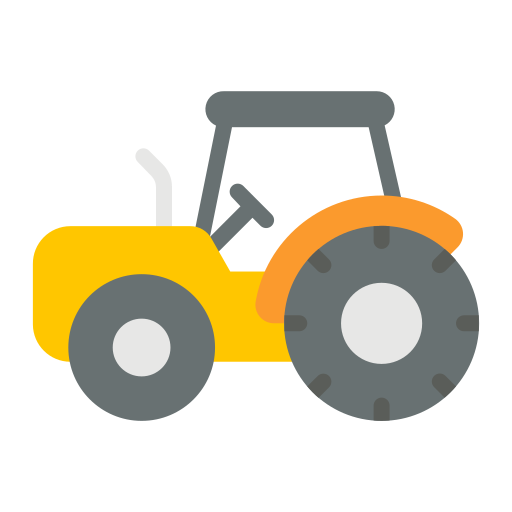
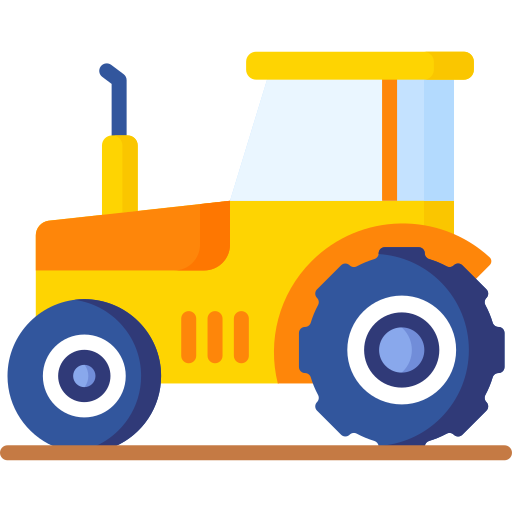
update

diff --git a/resources/js/front/profile/Front_Profile_Plans.vue b/resources/js/front/profile/Front_Profile_Plans.vue
@@ -40,7 +40,7 @@ export default {
                 <q-card-section class="bg-green-6">
                     <div class="head-title text-white">اشتراک های فعال</div>
                 </q-card-section>
-                <q-card-section>
+                <q-card-section class="mobile-plan-card-top">
                     <div class="plan-title text-indigo text-center">
                         اشتراک دریافت خدمات
                     </div>
@@ -57,18 +57,18 @@ export default {
                                         <q-icon class="card-active-icon" name="fas fa-check-circle fa-beat"/>
                                     </q-card-section>
                                 </q-card>
-                                <q-card v-else class="bg-indigo-3 shadow-8 cursor-pointer">
+                                <q-card v-else class="bg-teal-7 shadow-8 cursor-pointer">
                                     <router-link :to="{name : 'plans'}">
-                                        <q-card-section>
+                                        <q-card-section class="mobile-plan-card">
                                             <div class="row">
-                                                <div class="col-lg-3 text-center">
+                                                <div class="col-lg-3 col-md-3 col-sm-3 col-xs-3 text-center">
                                                     <q-img src="/front/images/tractor.png" class="buy-img" />
                                                 </div>
-                                                <div class="col-lg-9 q-pl-md">
-                                                    <div class="text-black buy-card-title font-iransans">
+                                                <div class="col-lg-9 col-md-3 col-sm-9 col-xs-9 q-pl-md">
+                                                    <div class="text-white buy-card-title font-iransans">
                                                         خرید اشتراک دریافت خدمات
                                                     </div>
-                                                    <div class="buy-card-subtitle text-grey-8">
+                                                    <div class="buy-card-subtitle text-grey-3 text-justify">
                                                         با خرید اشتراک دریافت خدمات کشاورز ، از امکانات کامل سیستم کشاورز برای جستجو و دریافت ادوات و خدمات کشاورزی بهرهمند شوید
                                                     </div>
                                                 </div>
@@ -112,7 +112,7 @@ export default {
     font-weight: 500;
 }
 .buy-img{
-    width: 125px;
+    width: 100px;
 }
 .card-active-icon{
     font-size: 28px;
@@ -120,6 +120,12 @@ export default {
 
 @media only screen and (max-width: 600px) {
 
+    .mobile-plan-card{
+        padding: 0 8px;
+    }
+    .mobile-plan-card-top{
+        padding: 15px 5px;
+    }
     .head-title{
         font-size: 14px;
         font-weight: 600;
@@ -130,14 +136,26 @@ export default {
         font-weight: 450;
     }
     .not-active{
-        font-size: 12px;
-        font-weight: 400;
-    }
-    .buy-btn{
         font-size: 13px;
-        font-weight: 600;
+        font-weight: 500;
     }
 
+    .buy-card-title{
+        font-size: 19px;
+        font-weight: 750;
+        margin-top: 8px;
+        margin-bottom: 8px;
+    }
+    .buy-card-subtitle{
+        font-size: 13px;
+        font-weight: 450;
+    }
+    .buy-img{
+        width: 85px;
+    }
+    .card-active-icon{
+        font-size: 19px;
+    }
 }
 
 

diff --git a/resources/js/front/plans/Front_Plans_Item.vue b/resources/js/front/plans/Front_Plans_Item.vue
@@ -6,17 +6,40 @@ export default {
 </script>
 
 <template>
-    <q-card class="bg-indigo-5 text-white">
+    <q-card class="bg-teal-9 text-white shadow-8 cursor-pointer">
         <q-card-section class="q-pa-sm">
             <div class="row">
                 <div class="col-2">
                     <q-icon name="fas fa-medal fa-3x"></q-icon>
                 </div>
                 <div class="col-10 q-pt-md">
-                    <span class="title">{{item.name}}</span>
+                    <span class="title">{{item.title}}</span>
                     <div class="">
                         <strong class="access">{{item.access}}</strong>
                         <span class="access-text">ماه دسترسی نامحدود</span>
+                    </div>
+                    <div class="q-mt-sm">
+                        <span class="price-title">قیمت : </span>
+                        <template v-if="item.is_free">
+                            <span class="float-right price text-yellow-7 fa-beat">رایگان</span>
+
+                        </template>
+                        <template v-else>
+                            <template v-if="item.sale">
+                                <span class="price-unit float-right">تومان</span>
+                                <span class="float-right price text-yellow-7">{{this.$filters.numbers(item.sale)}}</span>
+                                <span class="float-right price-sale">{{this.$filters.numbers(item.price)}}</span>
+
+
+                            </template>
+                            <template v-else>
+                                <span class="price-unit float-right">تومان</span>
+                                <span class="float-right price text-yellow-7">{{this.$filters.numbers(item.price)}}</span>
+
+                            </template>
+                        </template>
+
+
                     </div>
 
                 </div>
@@ -31,11 +54,31 @@ export default {
     font-weight: 450;
 }
 .access{
-    font-size: 25px;
+    font-size: 20px;
     font-weight: 700;
 }
 .access-text{
     padding-left: 4px;
     font-weight: 500;
+}
+.price-title{
+    font-size: 14px;
+    color: rgba(243, 239, 239, 0.99);
+}
+.price{
+    font-size: 18px;
+    font-weight: 700;
+}
+.price-unit {
+    margin-left: 5px;
+    font-size: 13px;
+}
+.price-sale{
+    margin-right: 5px;
+    font-size: 17px;
+    padding-top: 1px;
+    font-weight: 700;
+    text-decoration: line-through;
+    text-decoration-color: black;
 }
 </style>

diff --git a/resources/js/front/plans/Front_Plans_Customers.vue b/resources/js/front/plans/Front_Plans_Customers.vue
@@ -1,9 +1,35 @@
 <script>
+import {mapActions} from "vuex";
 import Front_Skeleton_Plans from "../skeleton/Front_Skeleton_Plans.vue";
 import Front_Plans_Item from "./Front_Plans_Item.vue";
 
 export default {
     name: "Front_Plans_Customers",
+    mounted() {
+        this.GetPlans();
+    },
+    data(){
+      return{
+          plans:[],
+          loading:false,
+      }
+    },
+    methods:{
+        ...mapActions([
+           "PlansStoreIndexCustomer",
+        ]),
+        GetPlans(){
+            this.loading=true;
+            this.PlansStoreIndexCustomer().then(res => {
+                this.loading=false;
+                this.plans = res.data.result;
+            }).catch(error => {
+                this.loading=false;
+                return this.NotifyServerError();
+
+            })
+        }
+    },
     components:{
         'skeleton' : Front_Skeleton_Plans,
         'plan_item' : Front_Plans_Item,
@@ -13,9 +39,15 @@ export default {
 
 <template>
     <div class="row">
-        <div v-for="i in 6" class="box-padding col-xl-3 col-lg-4 col-md-6 col-sm-12 col-xs-12">
-            <plan_item :item="{name:'اشتراک طلایی 6 ماهه',access:6}"/>
+
+        <div v-if="loading" v-for="i in 4" class="box-padding col-xl-3 col-lg-4 col-md-6 col-sm-12 col-xs-12">
+            <skeleton/>
         </div>
+
+        <div v-else v-for="plan in plans" class="box-padding col-xl-3 col-lg-4 col-md-6 col-sm-12 col-xs-12">
+            <plan_item :item="plan"/>
+        </div>
+
     </div>
 </template>
 

diff --git a/resources/js/front/plans/Front_Plans_Providers.vue b/resources/js/front/plans/Front_Plans_Providers.vue
@@ -1,19 +1,53 @@
 <script>
 import Front_Skeleton_Plans from "../skeleton/Front_Skeleton_Plans.vue";
+import {mapActions} from "vuex";
+import Front_Plans_Item from "./Front_Plans_Item.vue";
 
 export default {
     name: "Front_Plans_Providers",
+    mounted() {
+        this.GetPlans();
+    },
+    data(){
+        return{
+            plans:[],
+            loading:false,
+        }
+    },
+    methods:{
+        ...mapActions([
+            "PlansStoreIndexProvider",
+        ]),
+        GetPlans(){
+            this.loading=true;
+            this.PlansStoreIndexProvider().then(res => {
+                this.loading=false;
+                this.plans = res.data.result;
+            }).catch(error => {
+                this.loading=false;
+                return this.NotifyServerError();
+
+            })
+        }
+    },
     components:{
         'skeleton' : Front_Skeleton_Plans,
+        'plan_item' : Front_Plans_Item,
     }
 }
 </script>
 
 <template>
     <div class="row">
-        <div v-for="i in 3" class="box-padding col-xl-3 col-lg-4 col-md-6 col-sm-12 col-xs-12">
-            <skeleton ></skeleton>
+
+        <div v-if="loading" v-for="i in 4" class="box-padding col-xl-3 col-lg-4 col-md-6 col-sm-12 col-xs-12">
+            <skeleton/>
         </div>
+
+        <div v-else v-for="plan in plans" class="box-padding col-xl-3 col-lg-4 col-md-6 col-sm-12 col-xs-12">
+            <plan_item :item="plan"/>
+        </div>
+
     </div>
 </template>
 

diff --git a/resources/js/store/modules/plans/Plans.js b/resources/js/store/modules/plans/Plans.js
@@ -6,6 +6,28 @@ export default {
     state : {},
     mutations: {},
     actions:{
+        PlansStoreIndexCustomer(){
+            return new Promise((resolve,reject) => {
+                axios.get('public/plans/customer').then((result ) => {
+                    resolve(result);
+                }).catch(error => {
+                    reject();
+                })
+            } )
+        },
+        PlansStoreIndexProvider(){
+            return new Promise((resolve,reject) => {
+                axios.get('public/plans/provider').then((result ) => {
+                    resolve(result);
+                }).catch(error => {
+                    reject();
+                })
+            } )
+        },
+
+
+
+
         UserPlanCustomerActive(){
             return new Promise((resolve,reject) => {
                 axios.get('users/plans/customer/active').then((result ) => {

diff --git a/resources/js/front/plans/Front_Plans_Store.vue b/resources/js/front/plans/Front_Plans_Store.vue
@@ -32,7 +32,7 @@ export default {
             <hr>
             <div class="row">
                 <div class="col-12">
-                    <q-banner dense class="bg-teal text-white reserve-text">
+                    <q-banner dense class="bg-teal-8 text-white reserve-text">
                         <q-icon name="fas fa-info-circle"/>
                         چنانچه اشتراک فعالی داشته باشید ، اشتراک جدید خریداری شده به صورت <strong> رزرو </strong> برای شما ثبت و به صورت خودکار اعمال میشود.
                     </q-banner>

diff --git a/app/Http/Controllers/Public/PublicController.php b/app/Http/Controllers/Public/PublicController.php
@@ -3,13 +3,34 @@
 namespace App\Http\Controllers\Public;
 
 use App\Http\Controllers\Controller;
+use App\Interfaces\Plans\PlansInterface;
 use App\Models\Province;
 use Illuminate\Http\Request;
 
 class PublicController extends Controller
 {
+    protected PlansInterface $plan_repository;
+
+    public function __construct(PlansInterface $plans)
+    {
+        $this->plan_repository = $plans;
+    }
+
     public function provinces()
     {
         return response_success(Province::with('cities')->get());
     }
+
+
+    public function plans_customer()
+    {
+        return response_success($this->plan_repository->index_customer());
+    }
+
+    public function plans_provider()
+    {
+        return response_success($this->plan_repository->index_provider());
+    }
+
+
 }

diff --git a/app/Repository/Plans/PlansRepository.php b/app/Repository/Plans/PlansRepository.php
@@ -14,11 +14,22 @@ class PlansRepository implements PlansInterface
 {
 
     public ZarinpalService $zarinpal_service;
+
     public function __construct()
     {
         $this->zarinpal_service = new ZarinpalService();
     }
 
+    public function index_customer()
+    {
+        return Customer_Plan::OrderByDesc('id')->withCount('invoices')->get();
+    }
+
+    public function index_provider()
+    {
+        return Provider_Plan::OrderByDesc('id')->withCount('invoices')->get();
+
+    }
 
 
     public function customer_buy_plan($plan)

diff --git a/routes/public.php b/routes/public.php
@@ -16,3 +16,11 @@ Route::prefix('implements')->group(function (){
 });
 
 Route::get('provinces',[\App\Http\Controllers\Public\PublicController::class,'provinces']);
+
+Route::prefix('plans')->group(function (){
+
+    Route::get('customer',[\App\Http\Controllers\Public\PublicController::class,'plans_customer']);
+    Route::get('provider',[\App\Http\Controllers\Public\PublicController::class,'plans_provider']);
+
+
+});

diff --git a/app/Interfaces/Plans/PlansInterface.php b/app/Interfaces/Plans/PlansInterface.php
@@ -3,6 +3,9 @@ namespace App\Interfaces\Plans;
 
 interface PlansInterface
 {
+    public function index_customer();
+    public function index_provider();
+
 
     public function customer_buy_plan($plan);
 
